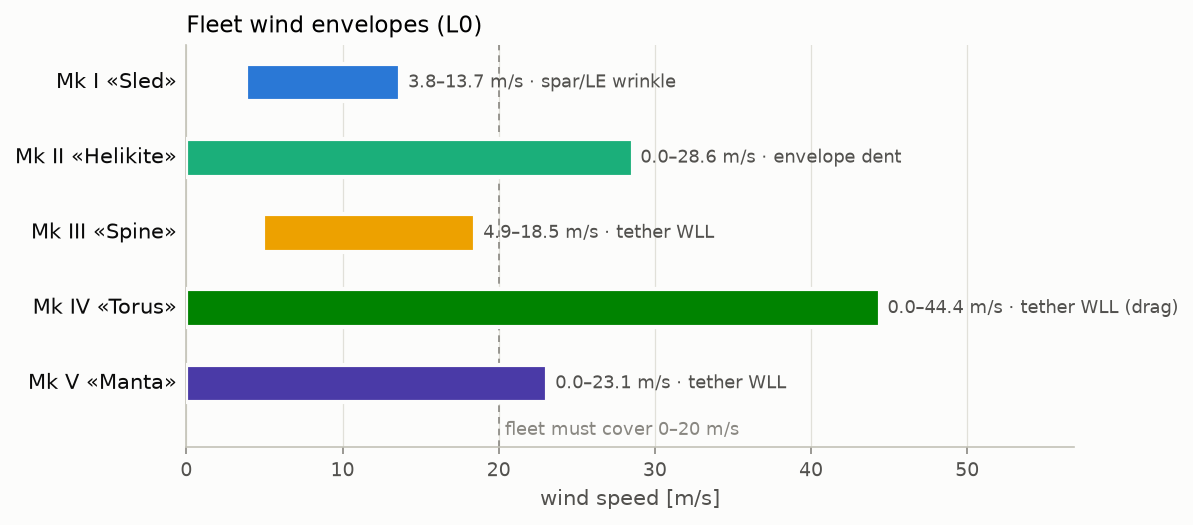
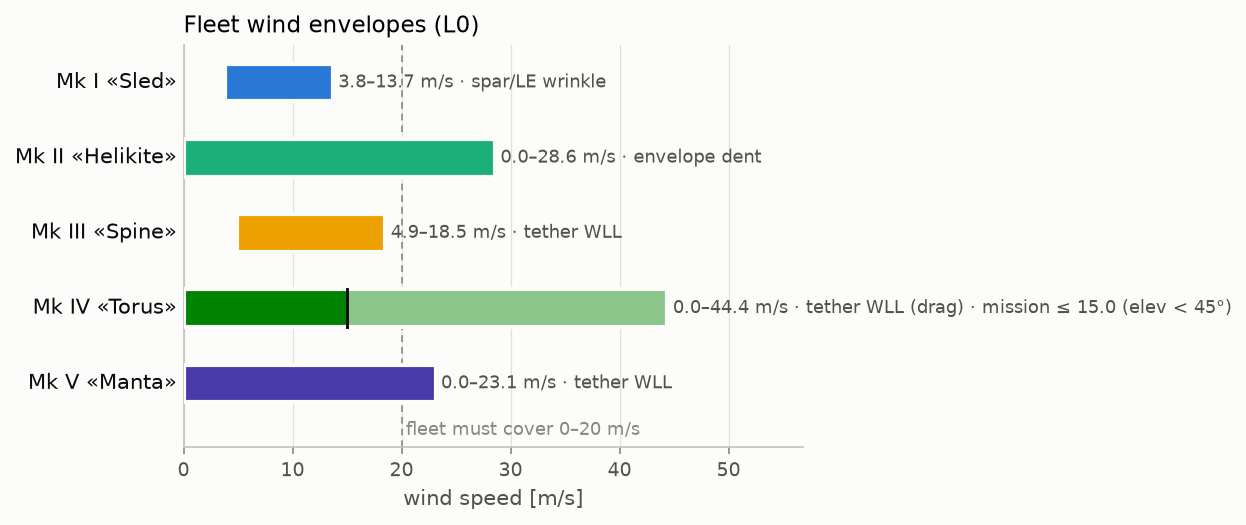
multiple fixes

diff --git a/kytoon/solvers/l0.py b/kytoon/solvers/l0.py
@@ -203,6 +203,9 @@ class WindEnvelope:
     v_max_limiter: str              # what sets the ceiling
     tow_force_at_12ms_kn: float
     vertical_capacity_at_10ms_kg: float  # spare vertical lift at 10 m/s
+    v_mission_ms: float = 0.0       # ceiling with tether elevation ≥ 45°
+                                    # (≤ v_max; binds drag-only aerostats,
+                                    # whose fixed buoyancy loses to v² drag)
 
 
 def solve_wind_envelope(spec: KytoonSpec) -> WindEnvelope:
@@ -268,6 +271,36 @@ def solve_wind_envelope(spec: KytoonSpec) -> WindEnvelope:
     limiter = min(limits, key=limits.get)  # type: ignore[arg-type]
     v_max = limits[limiter]
 
+    # mission ceiling: straight-line force balance, elevation = atan(V/H).
+    # Holding station (ISR pod, capture line overhead) needs ≥ 45°. Winged
+    # kytoons gain vertical force with q and never lose the angle inside
+    # their envelope; drag-only aerostats blow down as v² (L1 MoorPy
+    # cross-check: Mk IV sits at 44° @ 15 m/s with sag included).
+    net_n = (buoy.net_static_lift_kg - spec.tether.mass) * G
+
+    def _elev_ok(v: float) -> bool:
+        q = 0.5 * RHO_AIR * v**2
+        if S:
+            vert = q * S * cl + net_n
+            horiz = q * S * spec.canopy.cd_op
+        else:
+            vert = net_n
+            horiz = q * 0.5 * (spec.torus.ring_diameter *
+                               spec.torus.tube_diameter if spec.torus else 1.0)
+        return vert >= horiz  # tan(45°) = 1
+
+    if _elev_ok(v_max):
+        v_mission = v_max
+    else:
+        lo_v, hi_v = 0.0, v_max
+        for _ in range(50):
+            mid = 0.5 * (lo_v + hi_v)
+            if _elev_ok(mid):
+                lo_v = mid
+            else:
+                hi_v = mid
+        v_mission = 0.5 * (lo_v + hi_v)
+
     q12 = 0.5 * RHO_AIR * 12**2
     tow12 = q12 * S * cr / 1e3 if S else 0.0
     q10 = 0.5 * RHO_AIR * 10**2
@@ -280,6 +313,7 @@ def solve_wind_envelope(spec: KytoonSpec) -> WindEnvelope:
         v_max_limiter=limiter,
         tow_force_at_12ms_kn=tow12,
         vertical_capacity_at_10ms_kg=spare10,
+        v_mission_ms=v_mission,
     )
 
 

diff --git a/tests/test_l0.py b/tests/test_l0.py
@@ -92,6 +92,19 @@ def test_envelope_dent_limiter(specs):
     assert solve_wind_envelope(specs["IV"]).v_max_limiter != "envelope dent"
 
 
+def test_mission_ceiling_binds_only_drag_aerostats(specs):
+    """Elevation-floor ceiling (≥45°): a drag-only aerostat blows down when
+    q·Cd·A_frontal = net buoyant force. Mk IV hand check:
+    v = √(2·425·9.81 / (1.225·0.5·60.75)) ≈ 15.0 m/s — matching the L1
+    MoorPy blow-down (44° @ 15 m/s). Winged kytoons keep their angle."""
+    env4 = solve_wind_envelope(specs["IV"])
+    assert env4.v_mission_ms == pytest.approx(15.0, abs=0.2)
+    assert env4.v_mission_ms < env4.v_max_ms
+    for mk in ("I", "II", "III", "V"):
+        env = solve_wind_envelope(specs[mk])
+        assert env.v_mission_ms == pytest.approx(env.v_max_ms, rel=1e-3), mk
+
+
 def test_mk5_single_kytoon_coverage(specs):
     """Mk V's competing claim: one fat-wing kytoon covers the whole
     0–20+ m/s requirement alone (challenges the two-kytoon carriage)."""
@@ -102,9 +115,12 @@ def test_mk5_single_kytoon_coverage(specs):
 
 
 def test_fleet_covers_zero_to_20ms(specs):
+    """Coverage counted in MISSION ceiling (elev ≥ 45°), not line-survival
+    v_max — a kytoon streaming at 20° elevation isn't covering anything.
+    (Tightened 2026-07-12 with the mission-ceiling metric.)"""
     envs = [solve_wind_envelope(s) for s in specs.values()]
     assert min(e.v_min_ms for e in envs) == 0.0
-    assert max(e.v_max_ms for e in envs) > 20.0
+    assert max(e.v_mission_ms for e in envs) > 20.0
 
 
 def test_full_solve_runs_for_all(specs):

diff --git a/kytoon/viz.py b/kytoon/viz.py
@@ -78,8 +78,17 @@ def fig_fleet_envelopes(reports: list[L0Report]):
                 linewidth=2, zorder=3)
         ax.text(-0.6, y, rep.spec.name, ha="right", va="center",
                 fontsize=10, color=INK)
-        ax.text(env.v_max_ms + 0.5, y,
-                f"{env.v_min_ms:.1f}–{env.v_max_ms:.1f} m/s · {env.v_max_limiter}",
+        note = f"{env.v_min_ms:.1f}–{env.v_max_ms:.1f} m/s · {env.v_max_limiter}"
+        if env.v_mission_ms < env.v_max_ms - 0.05:
+            # blow-down caps the useful range before the line breaks:
+            # hatch the flattered part of the bar and say so
+            ax.barh(y, env.v_max_ms - env.v_mission_ms, left=env.v_mission_ms,
+                    height=0.5, color=SURFACE, alpha=0.55, edgecolor="none",
+                    zorder=4)
+            ax.plot([env.v_mission_ms] * 2, [y - 0.25, y + 0.25],
+                    color=INK, lw=1.4, zorder=5)
+            note += f" · mission ≤ {env.v_mission_ms:.1f} (elev < 45°)"
+        ax.text(env.v_max_ms + 0.5, y, note,
                 ha="left", va="center", fontsize=8.5, color=INK2)
 
     ax.axvline(20, color=MUTED, linewidth=0.8, linestyle=(0, (4, 3)), zorder=2)

diff --git a/tests/test_viz.py b/tests/test_viz.py
@@ -28,7 +28,11 @@ def _saves(fig, tmp_path, name):
 def test_fleet_envelopes_builds(reports, tmp_path):
     fig = viz.fig_fleet_envelopes(reports)
     ax = fig.axes[0]
-    assert len(ax.patches) == len(reports)          # one range bar per Mk
+    # one range bar per Mk + one wash overlay per mission-capped Mk
+    capped = sum(1 for r in reports
+                 if r.envelope.v_mission_ms < r.envelope.v_max_ms - 0.05)
+    assert len(ax.patches) == len(reports) + capped
+    assert capped >= 1                              # Mk IV blows down
     _saves(fig, tmp_path, "env.png")
 
 

diff --git a/tests/test_l1_aero.py b/tests/test_l1_aero.py
@@ -131,8 +131,11 @@ def test_mk5_fatwing_resultant_band(mk5_report):
 
 @needs_vsm
 def test_mk5_breukels_extrapolation_flagged(mk5_report):
-    """t/c 0.28 is beyond the LEI regression fit range — must be flagged."""
+    """t/c 0.28 is beyond the LEI regression fit range — must be flagged;
+    the twin-skin slim-profile flag must NOT fire (the fat wing's section
+    thickness comes from the spec, not the t=0.06 stand-in)."""
     assert any("extrapolated" in f for f in mk5_report.flags)
+    assert not any("twin-skin" in f for f in mk5_report.flags)
 
 
 @needs_vsm

diff --git a/kytoon/solvers/l1_aero.py b/kytoon/solvers/l1_aero.py
@@ -131,7 +131,9 @@ def solve(spec: KytoonSpec, n_panels: int = 40,
             "lobe interference NOT modeled — wing-only polar; do not feed "
             "into the Mk II envelope (task queue §7.5)"
         )
-    if spec.canopy is not None and spec.canopy.twin_skin:
+    if (spec.canopy is not None and spec.canopy.twin_skin
+            and spec.fat_wing is None):
+        # (not for fat wings: their section IS the thickness, t/c from spec)
         flags.append(
             "twin-skin section approximated by slim Breukels LEI profile "
             f"(t={TWIN_SKIN_TUBE_T}) — expect conservative L/D"

diff --git a/kytoon/report.py b/kytoon/report.py
@@ -31,6 +31,8 @@ def comparison_table(reports: list[L0Report]) -> str:
         ("v_min [m/s]", lambda r: _fmt(r.envelope.v_min_ms)),
         ("v_max [m/s]", lambda r: _fmt(r.envelope.v_max_ms)),
         ("v_max limiter", lambda r: r.envelope.v_max_limiter),
+        ("Mission ceiling (elev ≥ 45°) [m/s]",
+         lambda r: _fmt(r.envelope.v_mission_ms)),
         ("Tow @12 m/s [kN]", lambda r: _fmt(r.envelope.tow_force_at_12ms_kn)),
         ("Spare vert. lift @10 m/s [kg]",
          lambda r: _fmt(r.envelope.vertical_capacity_at_10ms_kg, 0)),

diff --git a/KYTOON-PROJECT.md b/KYTOON-PROJECT.md
@@ -77,6 +77,10 @@ kytoon/viz.py           CLI: python -m kytoon.viz specs/ -o reports/figures
                         (L0 figures always; polar/tether figures need `l1`)
 kytoon/geometry.py      3D kernel: spec → trimesh scene → models/*.glb|stl.
                         Owns ArcWing (shared with l1_aero). Needs `l1`.
+kytoon/sweep.py         OAT design sweep around one spec (built for Mk V):
+                        python -m kytoon.sweep specs/mk5_manta.yaml --l1.
+                        Variant specs land in specs/manta/, results in
+                        reports/mk5_sweep/.
 data/tudelft_v3/        vendored CC-BY benchmark (see SOURCE.md for citations).
                         Treat as read-only; re-download from awegroup if stale.
 tests/test_l0.py        14 tests = the L0 validation contract (see §4).
@@ -144,7 +148,7 @@ consciously replace them (and update this file + tests):
 
 ## 4. The test suite is a contract
 
-64 tests across test_l0, test_l1_aero, test_l1_tether, test_viz,
+65 tests across test_l0, test_l1_aero, test_l1_tether, test_viz,
 test_geometry, test_l1_body_aero — all passing at last compile. Categories:
 
 - **Physics anchors** (must never change without a source): He net-lift
@@ -217,6 +221,13 @@ legitimately lower per m² and not comparable to AWE traction figures.
   for 20 kg of net lift (534 → 478 incl. tether). Spec + iteration sheet
   (REV C) updated. Next binding limit is still the tether; going past
   ~29 m/s (18 mm) costs commonality and lift for little ISR value.
+- **Mk V OAT sweep (2026-07-12, `kytoon/sweep.py` → reports/mk5_sweep/)**:
+  center chord is the dominant knob (11.5→15 m: net incl. tether 113→363 kg,
+  tow 15.5→20.2 kN, ceiling 24.9→21.8 — all still >20); taper trades the
+  same direction more weakly; n_cells and pressure are pure structure
+  knobs (hoop ∝ pitch·p, wrinkle ∝ 1/p) with zero envelope effect. L1
+  cr_ratio stays 1.01 across the sweep. Growing the Manta is cheap if the
+  mission wants payload; the baseline 13.3 m is the balanced point.
 - **Mk V pivot: winged blimp → lofted fat wing (2026-07-11)**: a manta —
   NACA-form sections lofted along a linearly tapering span (center chord
   13.3 m → 35% at the tips, t/c 0.28, quarter-chord swept 15°), one
@@ -236,11 +247,14 @@ legitimately lower per m² and not comparable to AWE traction figures.
   (2026-07-11)**: with no wing, fixed buoyancy fights v²-growing drag —
   L1 tether blow-down: 83° elevation / 398 m altitude at 5 m/s degrades to
   44°/280 m at 15 and 20°/136 m at 25. Its *useful* envelope (elevation
-  ≥ 45°, capture line workable) is ≈ 0–14 m/s, not the 0–44 the L0 table
+  ≥ 45°, capture line workable) is ≈ 0–15 m/s, not the 0–44 the L0 table
   suggests. Mk II v2 holds ≥ 64°/360 m through 25 m/s because wing lift
-  grows with q. Candidate improvement: add a "mission ceiling"
-  (elevation-floor) metric to the envelope solve so the comparison table
-  stops flattering drag-only aerostats.
+  grows with q. IMPLEMENTED 2026-07-12: `v_mission_ms` (elevation ≥ 45°,
+  straight-line force balance — closed form, agrees with the MoorPy
+  blow-down at 15.0 vs 44°@15) is now in `WindEnvelope`, the report table,
+  and the envelope figure (Mk IV's bar is washed past its mission tick).
+  The fleet-coverage gate now counts mission ceiling, not line survival.
+  Fleet by useful ceiling: II 28.6 > V 23.1 > III 18.5 > IV 15.0 > I 13.7.
 - **Mk II v2: side deltas replace the under-lobe keel sheet (2026-07-11,
   REV D)**: a single 250 m² unsupported fabric surface under the lobe
   cannot hold shape — no load path to its trailing edge. Replaced with two

diff --git a/CLAUDE.md b/CLAUDE.md
@@ -98,6 +98,11 @@ Three-stage pipeline, one file per stage:
   exports `models/*.glb|stl`. Owns `ArcWing`, the C-arc shape shared with
   `l1_aero` — when a spec has an LE tube, its developed length pins the arc
   (don't reintroduce a second shape definition). Needs the `l1` extra.
+- `kytoon/sweep.py` — one-at-a-time design sweep around a baseline spec
+  (`python -m kytoon.sweep specs/mk5_manta.yaml -o reports/mk5_sweep --l1`).
+  Writes variant specs (e.g. `specs/manta/`) and a markdown+figure summary.
+  Overriding planform fields re-derives `canopy.area` to keep the
+  validator's planform-agreement check satisfied.
 - `kytoon/viz.py` — static matplotlib figures into `reports/figures/`:
   fleet envelopes + structure margins (L0-only), Mk polars vs the V3
   benchmark and tether profiles (need the `l1` extra; CLI skips them

diff --git a/reports/l0.md b/reports/l0.md
@@ -16,6 +16,7 @@ Closed-form layer: Archimedes buoyancy, pressurized-beam wrinkle margins, quasi-
 | v_min [m/s] | 3.8 | 0.0 | 4.9 | 0.0 | 0.0 |
 | v_max [m/s] | 13.7 | 28.6 | 18.5 | 44.4 | 23.1 |
 | v_max limiter | spar/LE wrinkle | envelope dent | tether WLL | tether WLL (drag) | tether WLL |
+| Mission ceiling (elev ≥ 45°) [m/s] | 13.7 | 28.6 | 18.5 | 15.0 | 23.1 |
 | Tow @12 m/s [kN] | 28.7 | 4.9 | 28.0 | 0.0 | 18.0 |
 | Spare vert. lift @10 m/s [kg] | 1,094 | 750 | 956 | 425 | 1,196 |
 
@@ -53,7 +54,7 @@ Closed-form layer: Archimedes buoyancy, pressurized-beam wrinkle margins, quasi-
 - **Mk II «Helikite»**: no L0 flags
 - **Mk III «Spine»**: needs ≥ 4.9 m/s to stay aloft
 - **Mk IV «Torus»**: no L0 flags
-- **Mk V «Manta»**: no L0 flags- **Mk V «Manta»**: no L0 flags- **Mk V «Manta»**: no L0 flags- **Mk V «Manta»**: no L0 flags- **Mk V «Manta»**: no L0 flags- **Mk V «Manta»**: no L0 flags## Aerodynamic calibration provenance
+- **Mk V «Manta»**: no L0 flags- **Mk V «Manta»**: no L0 flags- **Mk V «Manta»**: no L0 flags- **Mk V «Manta»**: no L0 flags- **Mk V «Manta»**: no L0 flags- **Mk V «Manta»**: no L0 flags- **Mk V «Manta»**: no L0 flags## Aerodynamic calibration provenance
 
 Canopy coefficients for the clean-wing archetypes (Mk I, Mk III) are anchored
 to the open TU Delft V3 LEI benchmark (awegroup/TUDELFT_V3_KITE, CC-BY):